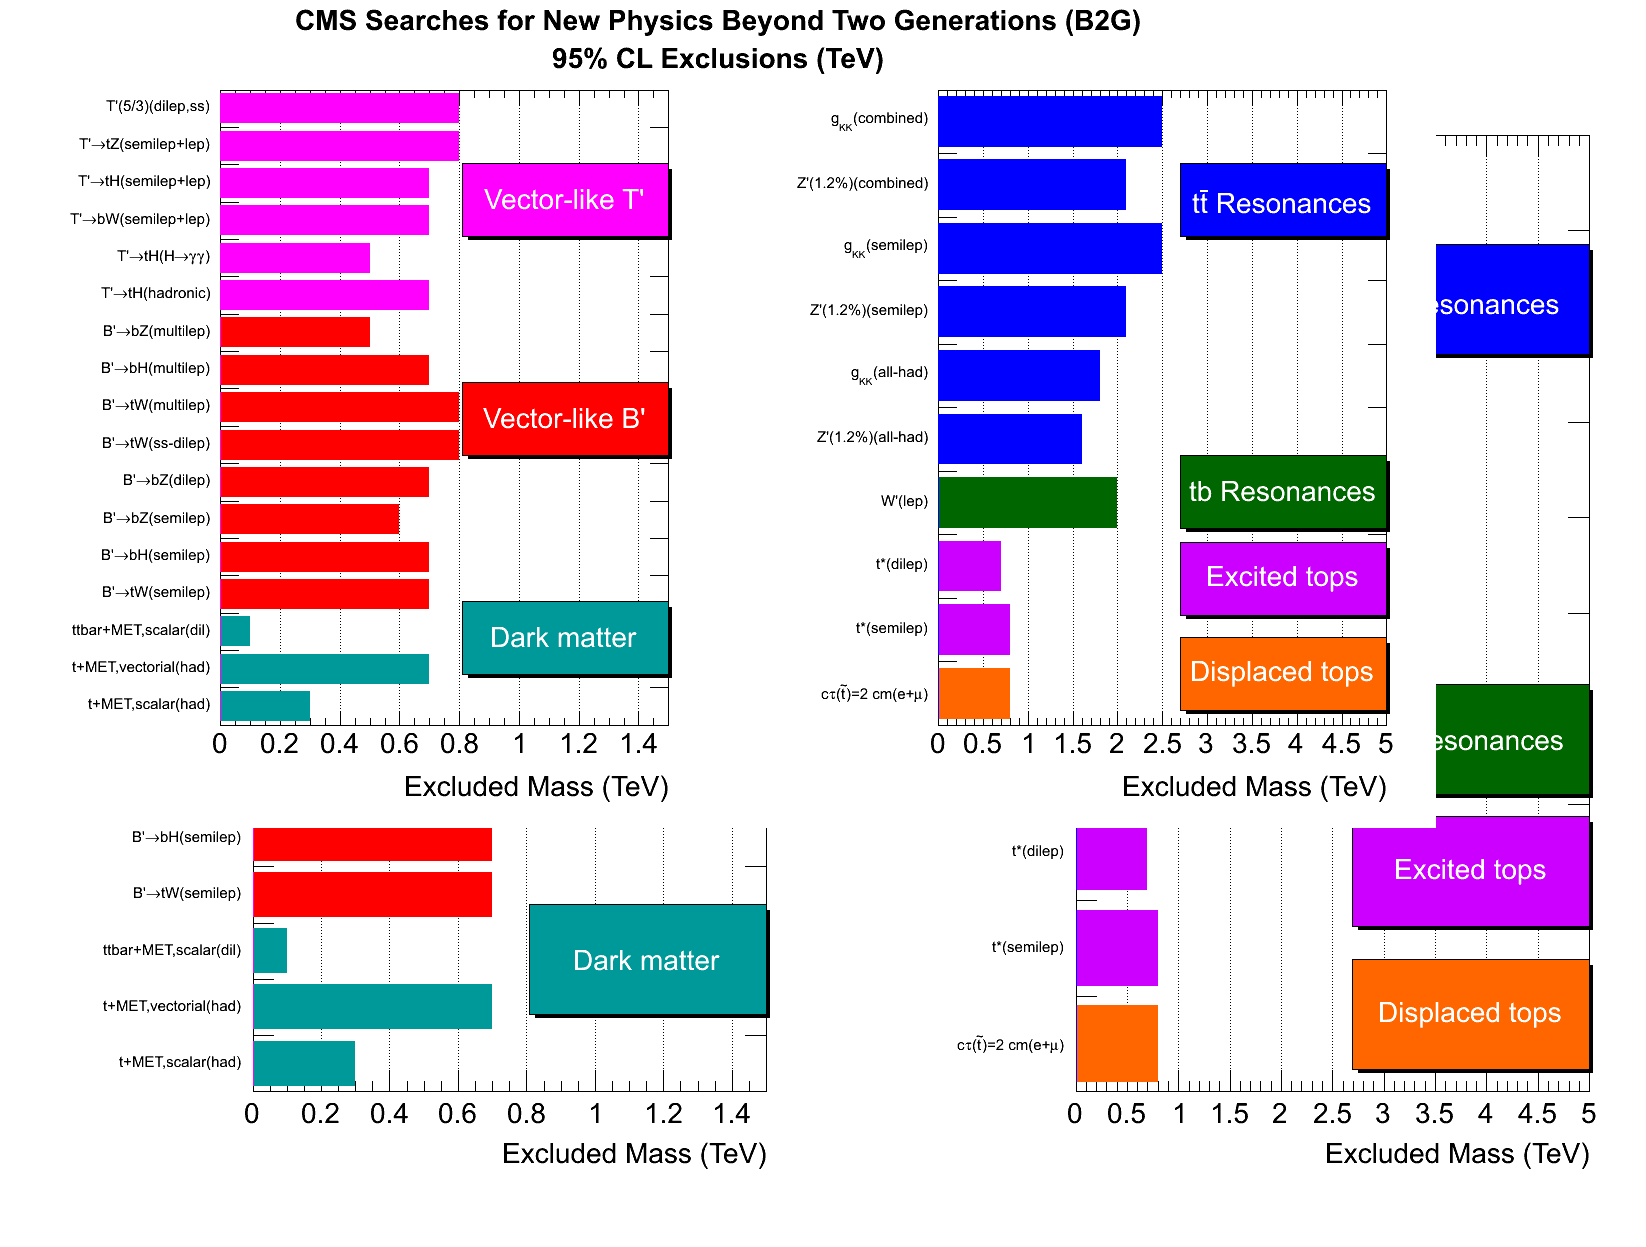
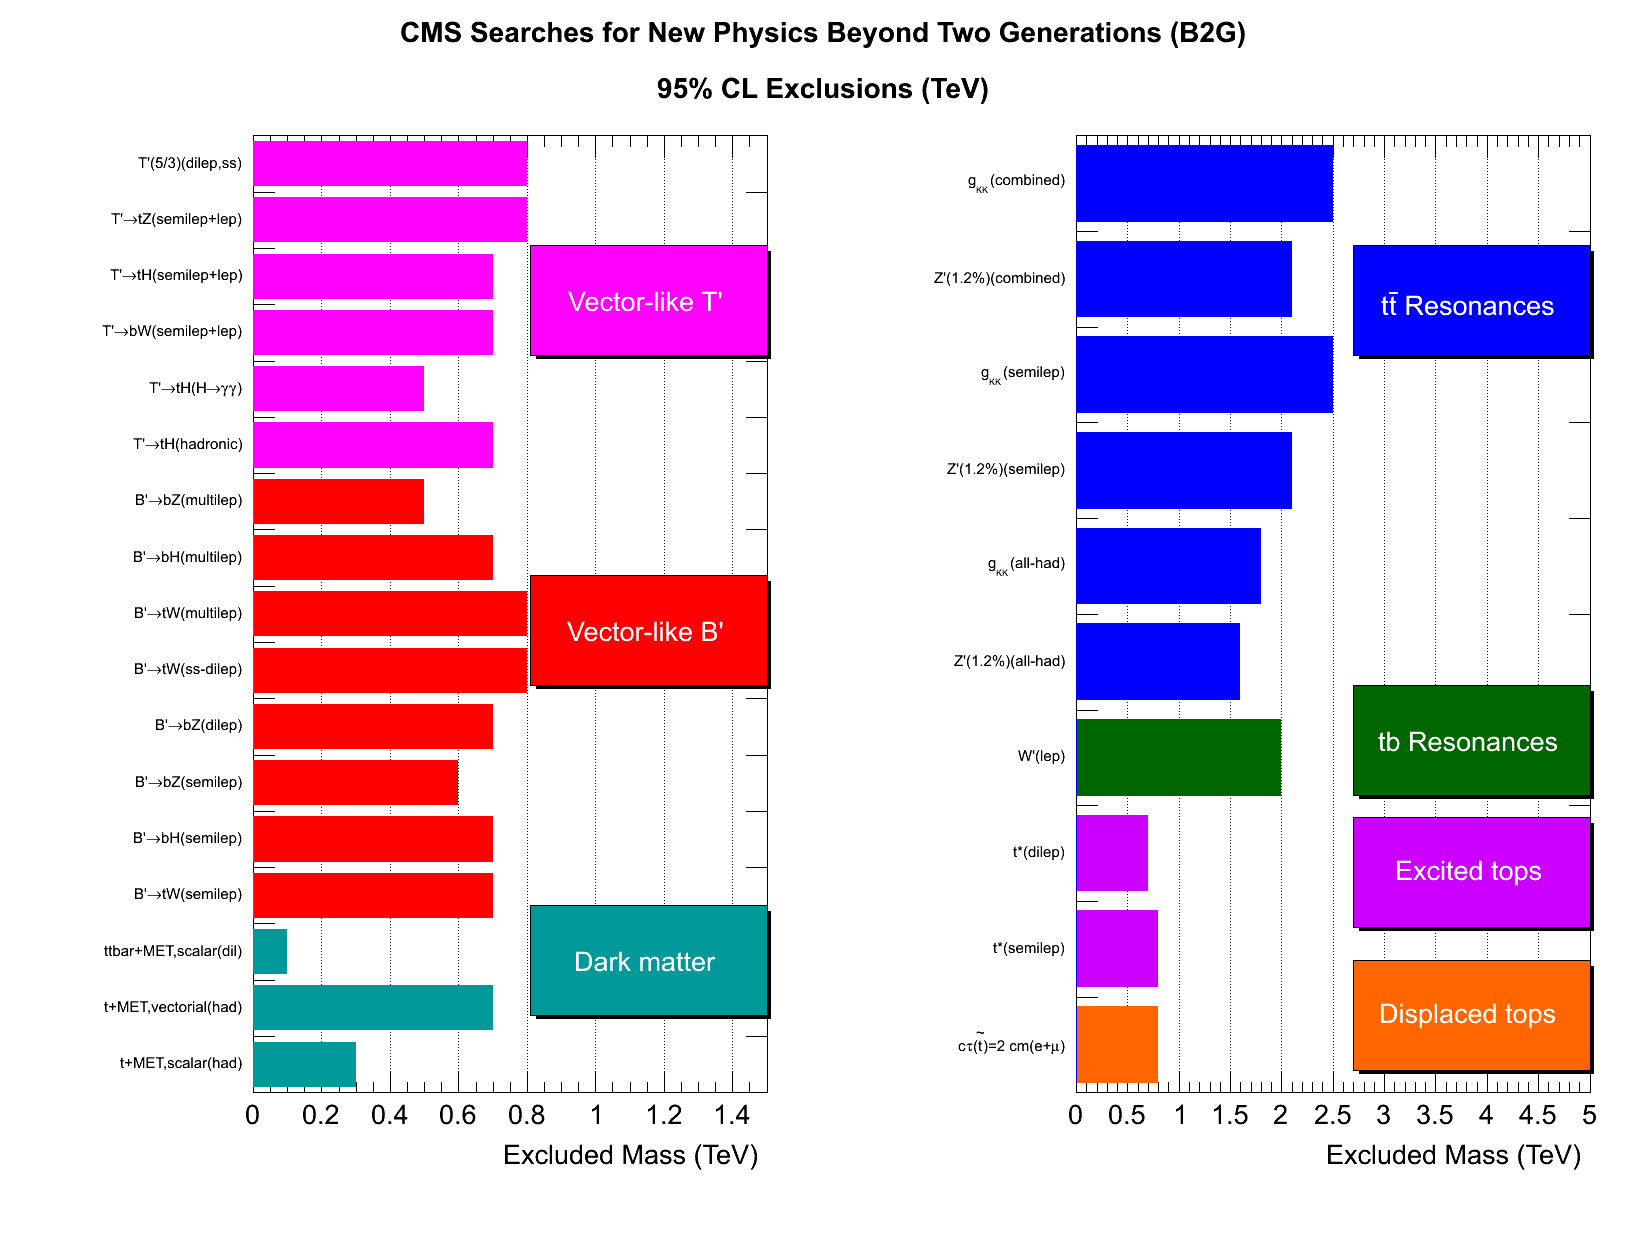
Fixing the plots and macro to deal with ROOT weirdness. Apparently if the desktop is too small ROOT will change the size of the canvas internally, and stupidly.

diff --git a/fullmacro.py b/fullmacro.py
@@ -20,6 +20,10 @@ parser.add_option('--maxval1', metavar='F', type='int', action='store',
                   dest='maxval1',
                   help='Maximum value of the RES plots')
 
+parser.add_option('--batch', action='store_true',
+                  default=False,
+                  dest='batch',
+                  help='Run ROOT in batch mode')
 
 (options, args) = parser.parse_args()
 
@@ -27,6 +31,8 @@ argv = []
 
 
 from ROOT import *
+if options.batch == True :
+    gROOT.SetBatch()
 
 # Set Style issues
 gROOT.Macro("rootlogon.C")
@@ -219,3 +225,4 @@ for key in [ "DM", "B'", "T'", "LLt", "t*", "W'", "Z'"] :
 c_all.Update()
 c_all.Print("b2g_summary_updated.pdf", "pdf")
 c_all.Print("b2g_summary_updated.png", "png")
+
